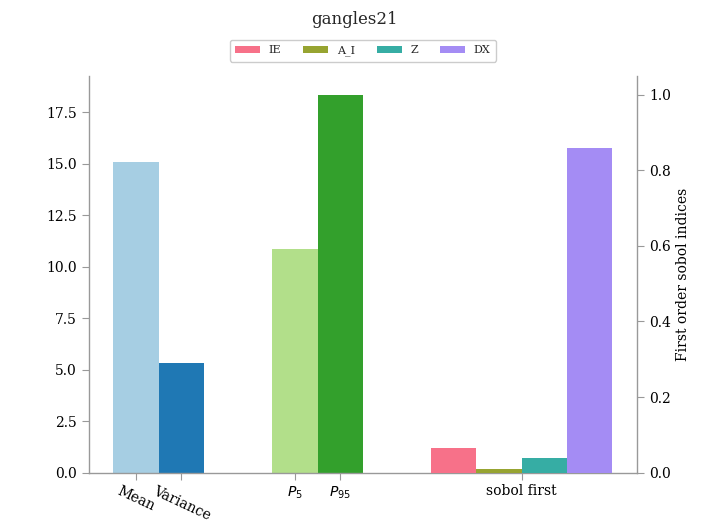
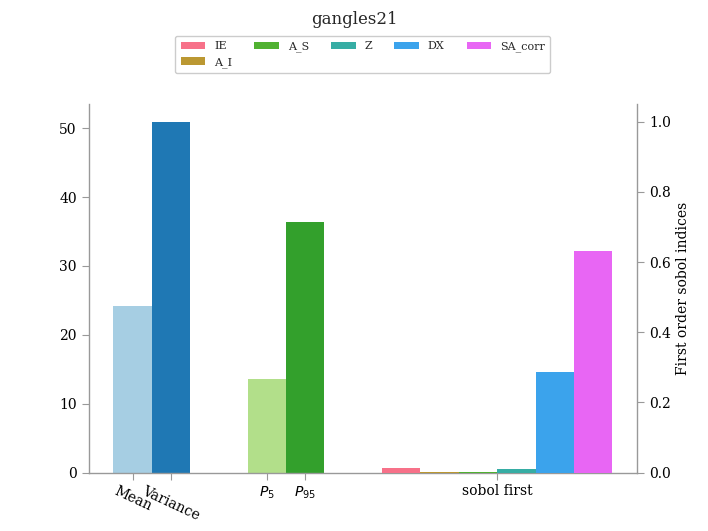
uq full

diff --git a/src/utils/uq_full.py b/src/utils/uq_full.py
@@ -43,7 +43,7 @@ if __name__ == "__main__":
         icestupa.self_attributes()
 
         # params = ['IE', 'A_I', 'A_S','A_DECAY', 'T_PPT', 'Z']
-        params = ['IE', 'A_I', 'A_S', 'Z', 'DX', 'SA_corr']
+        params = ['IE', 'A_I', 'A_S','A_DECAY', 'T_PPT', 'Z', 'DX', 'SA_corr']
 
         parameters = un.Parameters(setup_params_dist(params))
 
